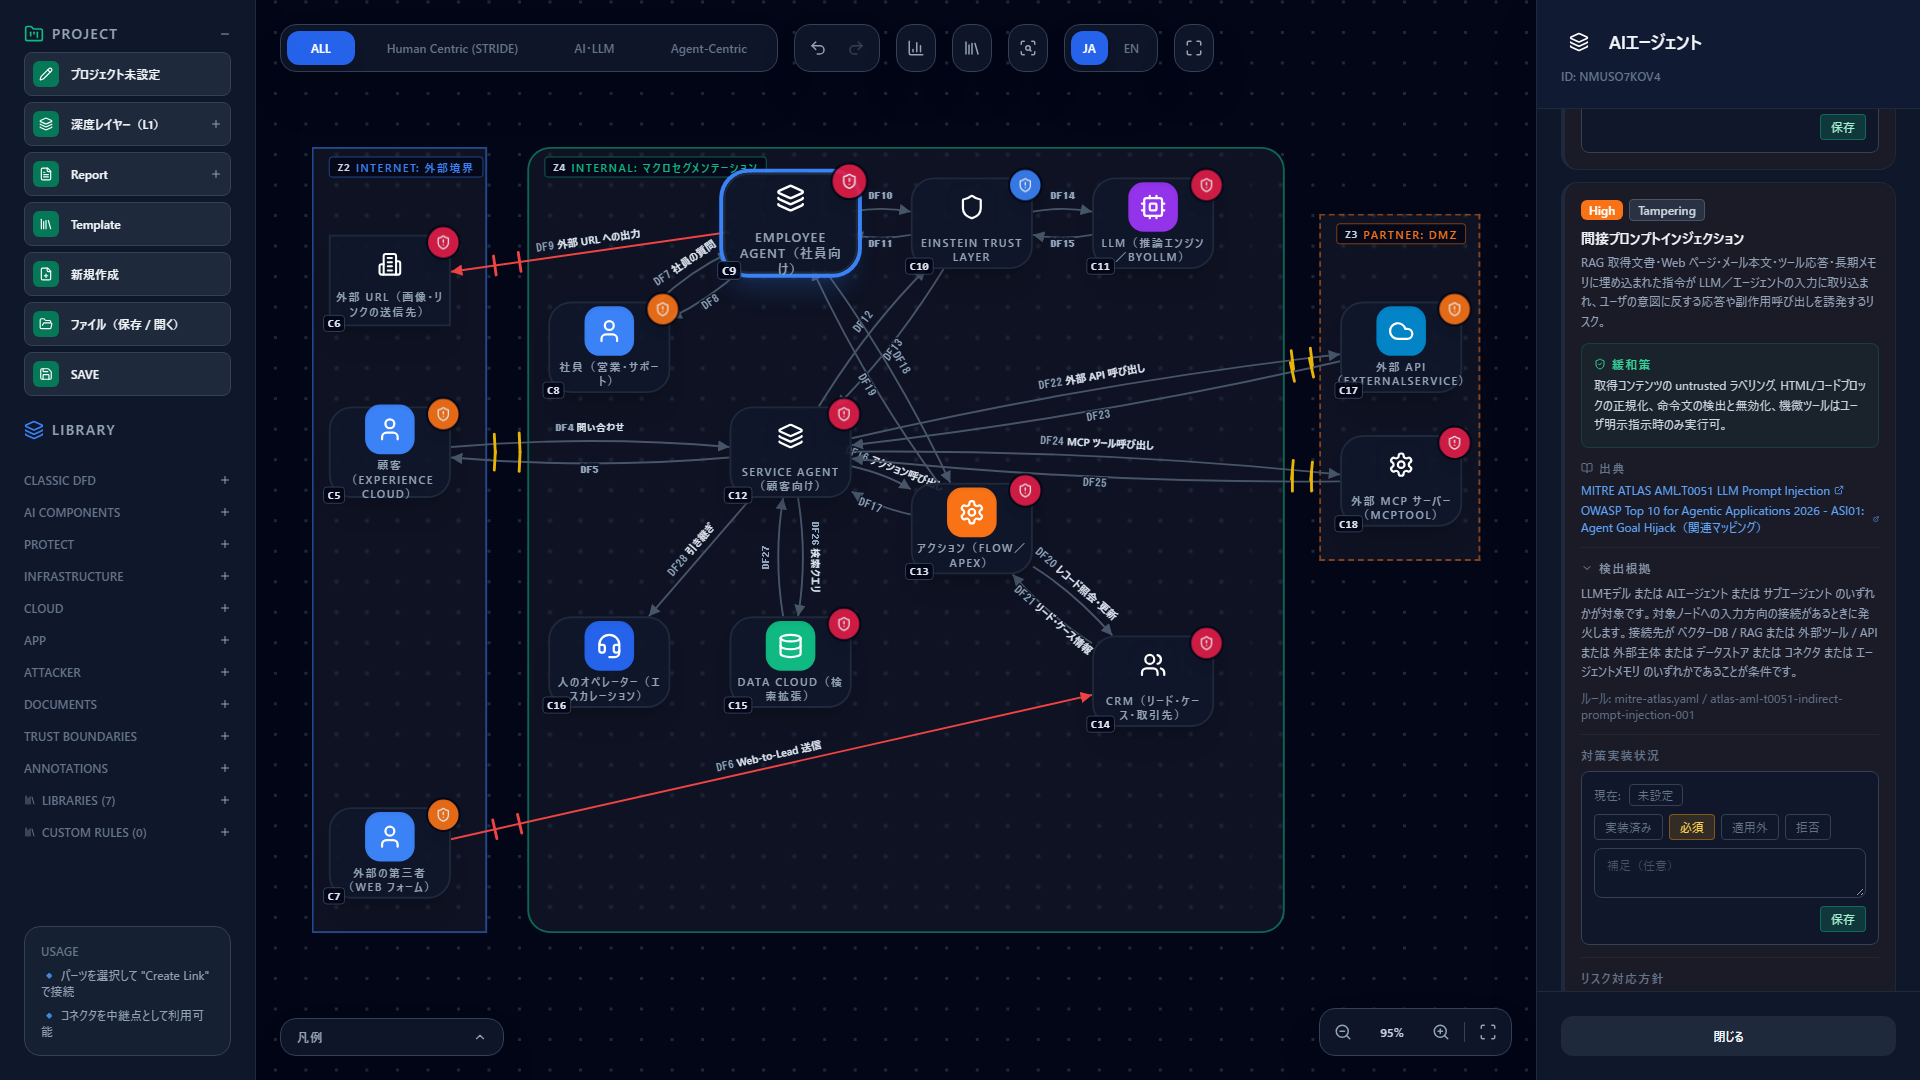
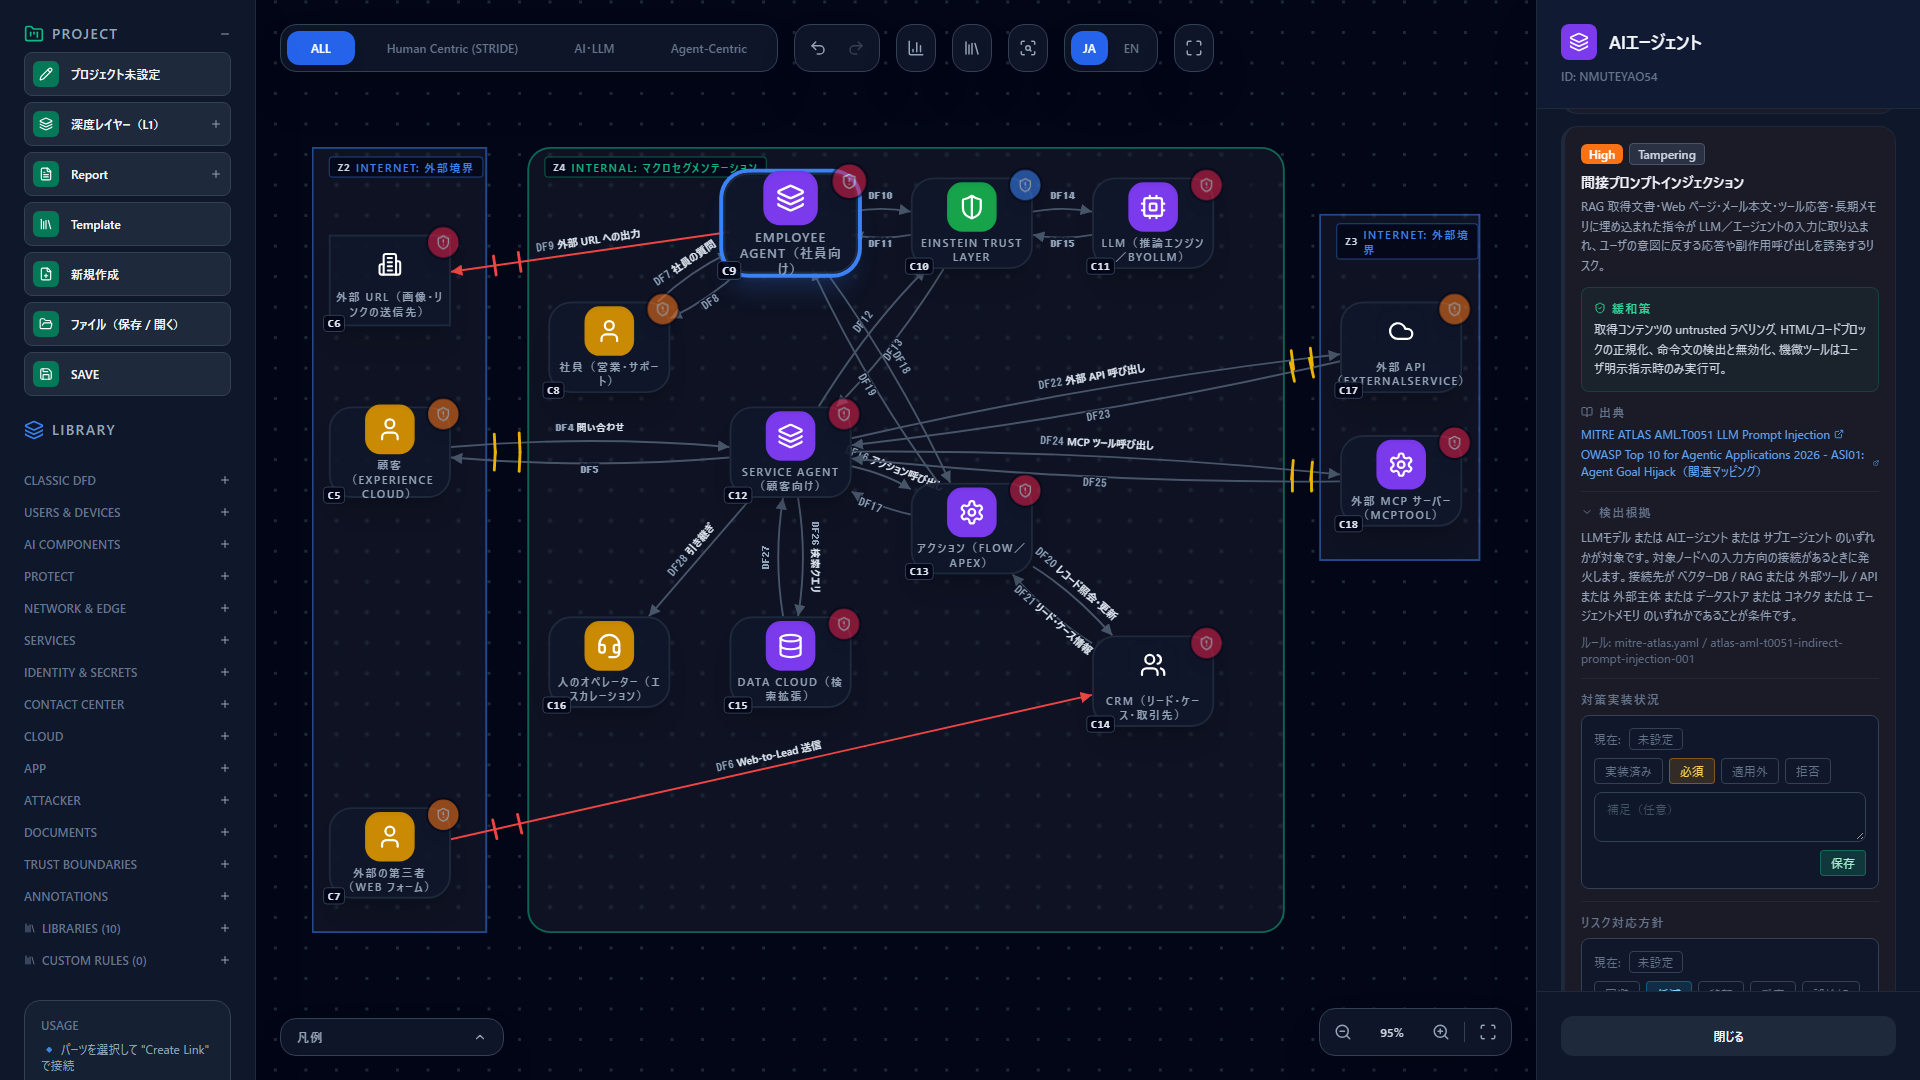
docs(guide): 外部組織の境界を Internet に揃え、スクリーンショットを撮り直す
- テンプレートの外部組織（Agentforce の外部 API・外部 MCP、コンタクトセンターの LINE、
  NHI の外部 SaaS・IDaaS）の境界を Partner(DMZ) から Internet に変更
- 検出件数を更新（Agentforce 101→103、コンタクトセンター 61→62）。外部サービスから
  社内エージェントへの応答に「Trust Boundary 跨ぎの直接暴露」が出ることを Agentforce ガイドに追記
- ガイドの Partner の記述を Internet に修正
- Agentforce・Kong・NHI のスクリーンショット 14 枚を撮り直し（Agentforce は旧カテゴリ名・旧色からも更新）

diff --git a/guide/agentforce.md b/guide/agentforce.md
@@ -46,8 +46,8 @@
 | Reasoning engine / BYOLLM | `LLM` | |
 | Einstein Trust Layer | `EINSTEIN_TRUST_LAYER` (dedicated library "Salesforce Agentforce") | Place it between the agent and the LLM. The dedicated rules (§4.2, §4.5, §4.7) fire on **agents connected to this type**. You can disable the library in the left sidebar; this only removes it from the palette and does not change placed diagrams, threat detection or saved data |
 | Actions (Apex, Flow, prompt, standard action) | `TOOL` | From the agent, `semantic: tool_invocation`. Note the run permission (user / system) in the description |
-| External MCP server (`mcpTool://`) | `MCP_SERVER` | Place it outside the org (Partner or Internet) |
-| External API (`externalService://`, Named Credential target) | `SAAS` or `EXTERNAL_ENTITY` | Place it outside the org |
+| External MCP server (`mcpTool://`) | `MCP_SERVER` | Place it outside the org (in an Internet boundary) |
+| External API (`externalService://`, Named Credential target) | `SAAS` or `EXTERNAL_ENTITY` | Place it outside the org (in an Internet boundary) |
 | CRM objects (leads, cases, accounts) | `CRM` | Draw the externally writable entry points (such as Web-to-Lead) from a separate `USER` / `EXTERNAL_ENTITY` |
 | Data Cloud retrieval (retriever) | `DB` | Use `semantic: rag_retrieval` on the return flow |
 | Web-to-Lead, Experience Cloud, messaging | `USER` (Guest) / `EXTERNAL_ENTITY` | Place them in the external boundary (Internet) |
@@ -72,7 +72,7 @@ This template puts a customer-facing Service agent and an internal Employee agen
 | [`templates/agentforce-service-agent.ja.json`](templates/agentforce-service-agent.ja.json) | Japanese |
 
 **What is in it:** 14 components, 25 data flows, 3 trust boundaries (customers and outsiders = Internet,
-the Salesforce org = Internal, external API / external MCP server = Partner).
+the Salesforce org = Internal, external API / external MCP server = Internet).
 
 - **Customer-facing flow** — customer → Service agent → Trust Layer → LLM. The Service agent uses actions
   (Flow / Apex), Data Cloud retrieval, an external API, an external MCP server and hand-off to a human
@@ -84,7 +84,7 @@ the Salesforce org = Internal, external API / external MCP server = Partner).
 Import works the same way as in [the templates page](templates.md). Open **Template** in the left sidebar,
 choose **Import**, select the JSON, and apply it.
 
-**After loading, 101 threats** are detected (17 Critical, 61 High, 23 Medium).
+**After loading, 103 threats** are detected (19 Critical, 61 High, 23 Medium).
 
 ### 3.1 Assumptions in the diagram (placeholder attributes)
 
@@ -249,6 +249,7 @@ That is the opposite direction and is outside this template.
 | Tool descriptor poisoning / line jumping (`mcp-tool-descriptor-poisoning-001`) | Critical | External MCP server |
 | MCP server impersonation / typosquatting (`mcp-server-impersonation-typosquatting-001`) | High | External MCP server |
 | Prompt input from outside the trust boundary (`maestro-agent-untrusted-ingress-001`) | High | Data flows such as "tool response" |
+| Direct exposure across the trust boundary (`stride-edge-internet-exposed-sensitive-001`) | Critical | Response data flows from the external MCP server and external API to the Service agent |
 
 ![Tool descriptor poisoning on the external MCP server](../assets/guide/agentforce/04-mcp-poisoning.png)
 
@@ -374,7 +375,7 @@ Read the .agent files under force-app/main/default/aiAuthoringBundles/ and turn 
 structure into a CyberRiskScape diagram.
 - Add the agent, the actions (by target kind), external services and external MCP servers, using the
   types you confirm with list_component_types
-- Set the semantic of actions to tool_invocation. Put external services and external MCP servers in a Partner boundary
+- Set the semantic of actions to tool_invocation. Put external services and external MCP servers in an Internet boundary
 - List the write actions whose require_user_confirmation is False and report them
 - Do not read the contents of Flow or Apex; report them as "needs confirmation"
 First show me, with dryRun, the threats that would be added.

diff --git a/guide/templates.md b/guide/templates.md
@@ -101,7 +101,7 @@ A single diagram of a contact center that mixes human operators and AI.
 | [`templates/contact-center.en.json`](templates/contact-center.en.json) | English |
 | [`templates/contact-center.ja.json`](templates/contact-center.ja.json) | Japanese |
 
-**Inside:** 15 components, 25 data flows, 3 trust boundaries (customer side = Internet, LINE = Partner, in-house contact center = Internal).
+**Inside:** 15 components, 25 data flows, 3 trust boundaries (customer side = Internet, LINE = Internet, in-house contact center = Internal).
 
 Four handling patterns share the one diagram:
 
@@ -113,7 +113,7 @@ Four handling patterns share the one diagram:
 The common parts are an IVR in front of the PBX, voiceprint authentication, call recording, a CRM
 (`tool_invocation`), an LLM (intent analysis / summary) and the AI-to-human escalation.
 
-Import it and **61 threats** are detected. The main ones: voiceprint bypass with cloned voices,
+Import it and **62 threats** are detected. The main ones: voiceprint bypass with cloned voices,
 social engineering of human operators by phone, STS guardrail gaps, prompt injection through
 STT (spoken input), PBX toll fraud and caller ID spoofing, unverified LINE webhook signatures and
 channel takeover, and exposure of call recordings (biometric data).
@@ -129,8 +129,8 @@ agent reads it and can send data out.
 | [`templates/agentforce-service-agent.en.json`](templates/agentforce-service-agent.en.json) | English |
 | [`templates/agentforce-service-agent.ja.json`](templates/agentforce-service-agent.ja.json) | Japanese |
 
-**Inside:** 14 components, 25 data flows, 3 trust boundaries (customers and outsiders = Internet, Salesforce org = Internal, external API / external MCP server = Partner).
-Import it and **101 threats** are detected. For how Agentforce building blocks map to types and how to read
+**Inside:** 14 components, 25 data flows, 3 trust boundaries (customers and outsiders = Internet, Salesforce org = Internal, external API / external MCP server = Internet).
+Import it and **103 threats** are detected. For how Agentforce building blocks map to types and how to read
 the detected threats, see [Threat Modeling Salesforce Agentforce](agentforce.md).
 
 ### The NHI and identity platform template
@@ -144,7 +144,7 @@ management but also uses the same service account directly by hand (human use of
 | [`templates/nhi-identity.en.json`](templates/nhi-identity.en.json) | English |
 | [`templates/nhi-identity.ja.json`](templates/nhi-identity.ja.json) | Japanese |
 
-**Inside:** 14 components, 12 data flows, 2 trust boundaries (inside the organization = Internal, external SaaS and IDaaS = Partner).
+**Inside:** 14 components, 12 data flows, 2 trust boundaries (inside the organization = Internal, external SaaS and IDaaS = Internet).
 Import it and **41 threats** are detected. For how the types map and how to read the threats, see
 [Threat Modeling NHIs and Identity Platforms](nhi-identity.md).
 

diff --git a/guide/kong-ai-gateway.ja.md b/guide/kong-ai-gateway.ja.md
@@ -42,7 +42,7 @@
 | Kong Gateway 本体 | `GATEWAY`（API ゲートウェイ）／`AI_GATEWAY` | AI 系プラグインを使うサービスは AI Gateway、それ以外は API ゲートウェイが受けます。両方あれば 2 つに分けて描きます |
 | Admin API（管理面） | `API_CONTROL_PLANE`（API管理プレーン） | 設定ファイルがある＝管理面がある、とみなして常に置きます |
 | Service（通常の API） | `BACKEND_API`（バックエンドAPI） | 名前は Service 名。転送先 URL が https なら暗号化あり、http なら平文 |
-| Service ＋ `ai-proxy` | `LLM` | 名前は「プロバイダ / モデル名」。OpenAI など外部のプロバイダは Partner の境界、ollama・vllm・llama は組織内に置きます |
+| Service ＋ `ai-proxy` | `LLM` | 名前は「プロバイダ / モデル名」。OpenAI など外部のプロバイダはインターネット側（Internet の境界）、ollama・vllm・llama は組織内に置きます |
 | Service ＋ `ai-proxy-advanced` | `LLM`（転送先ごと） | 負荷分散先のモデルをそれぞれ 1 つの LLM として描きます |
 | Service ＋ `ai-mcp-proxy` | `MCP_SERVER`（MCPサーバー） | |
 | Service ＋ `ai-a2a-proxy` | `AGENT`（AIエージェント） | |

diff --git a/guide/kong-ai-gateway.md b/guide/kong-ai-gateway.md
@@ -43,7 +43,7 @@ rules as any other diagram.
 | Kong Gateway itself | `GATEWAY` (API gateway) / `AI_GATEWAY` | Services that use AI plugins go through the AI Gateway, the rest through the API gateway. If both exist, two gateways are drawn |
 | Admin API (management plane) | `API_CONTROL_PLANE` (API control plane) | Always drawn — a configuration file implies a management plane |
 | Service (ordinary API) | `BACKEND_API` (Backend API) | Named after the Service. An https upstream URL means encrypted, http means plaintext |
-| Service + `ai-proxy` | `LLM` | Named "provider / model". External providers such as OpenAI sit in a Partner boundary; ollama, vllm and llama sit inside the organization |
+| Service + `ai-proxy` | `LLM` | Named "provider / model". External providers such as OpenAI sit on the internet side (an Internet boundary); ollama, vllm and llama sit inside the organization |
 | Service + `ai-proxy-advanced` | `LLM` (one per target) | Each load-balancing target becomes its own LLM |
 | Service + `ai-mcp-proxy` | `MCP_SERVER` (MCP server) | |
 | Service + `ai-a2a-proxy` | `AGENT` (AI agent) | |
